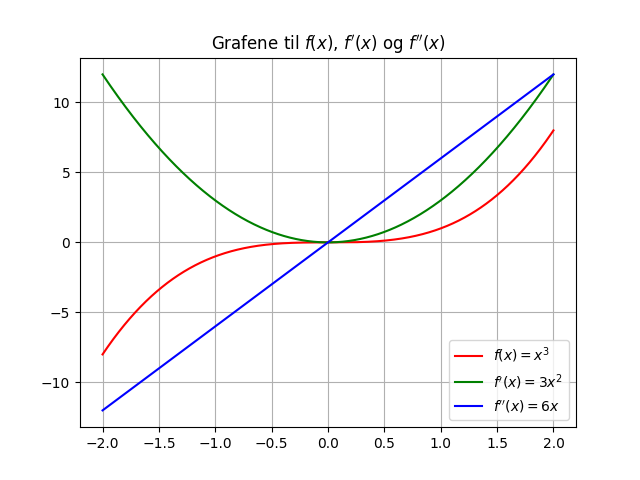
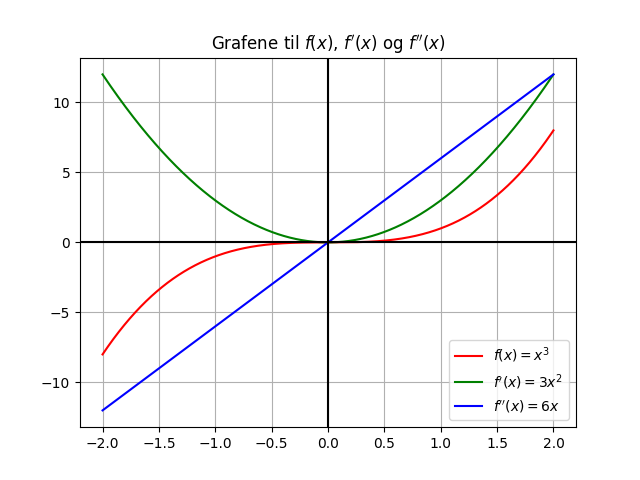
Add axes to plot

Changed region(s): [[0.125, 0.5, 0.9062, 0.5312]]

diff --git a/periode 3/tegning-av-grafer/oppgave1.py b/periode 3/tegning-av-grafer/oppgave1.py
@@ -20,6 +20,8 @@ def task_a() -> None:
         plt.plot(x, function(x), color, label=f"${name} = {expression}$")
 
     plt.legend()
+    plt.axhline(y=0, color="black")
+    plt.axvline(x=0, color="black")
     plt.grid()
     plt.title("Grafene til $f(x)$, $f'(x)$ og $f''(x)$")
 
@@ -43,6 +45,8 @@ def task_b() -> None:
         axs, functions, function_names, function_expressions, colors
     ):
         ax.set_title(f"Grafen til ${name}$")
+        ax.axhline(y=0, color="black")
+        ax.axvline(x=0, color="black")
         ax.plot(x, function(x), color, label=f"${name} = {expression}$")
         ax.legend()
 
